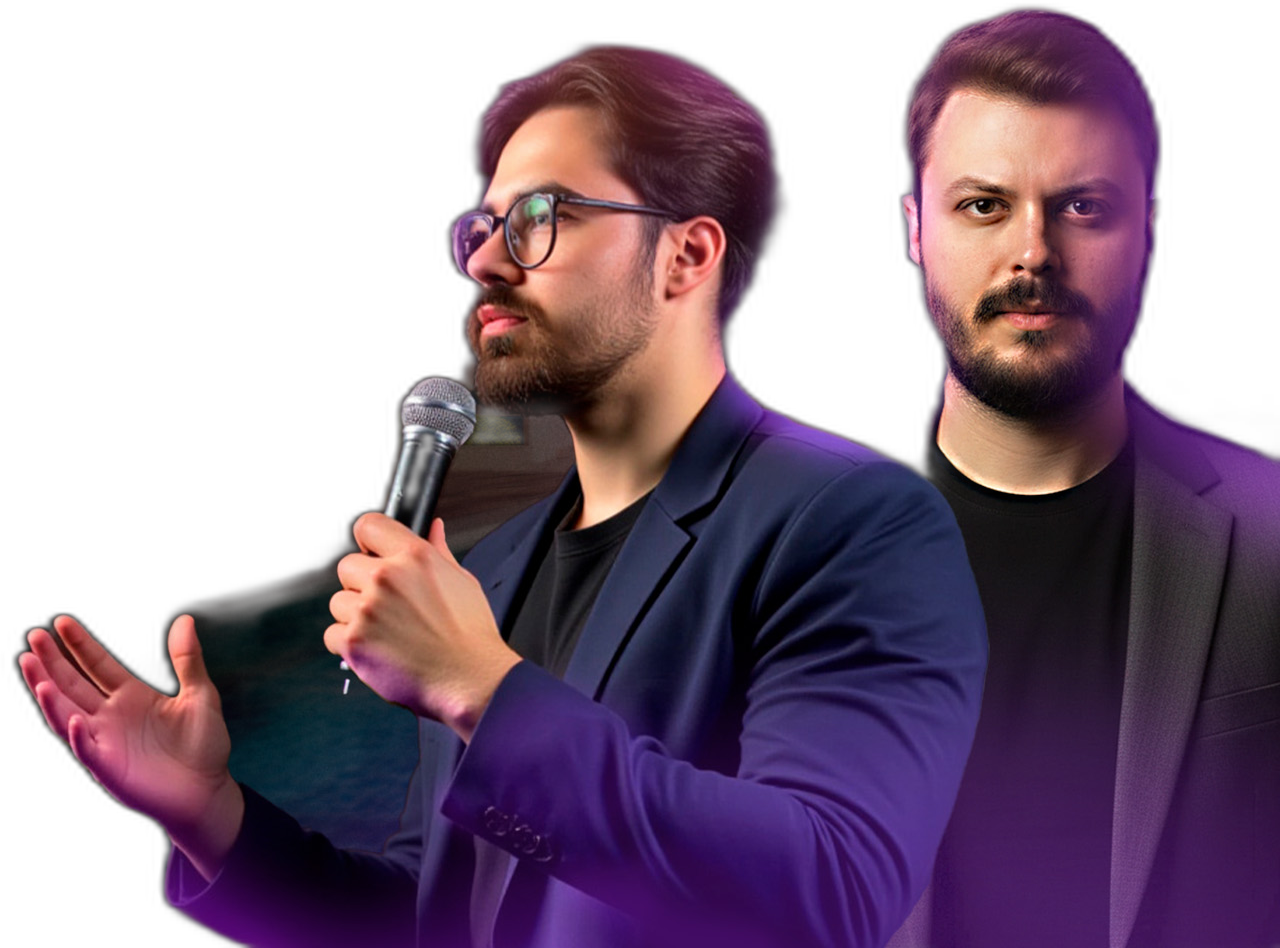
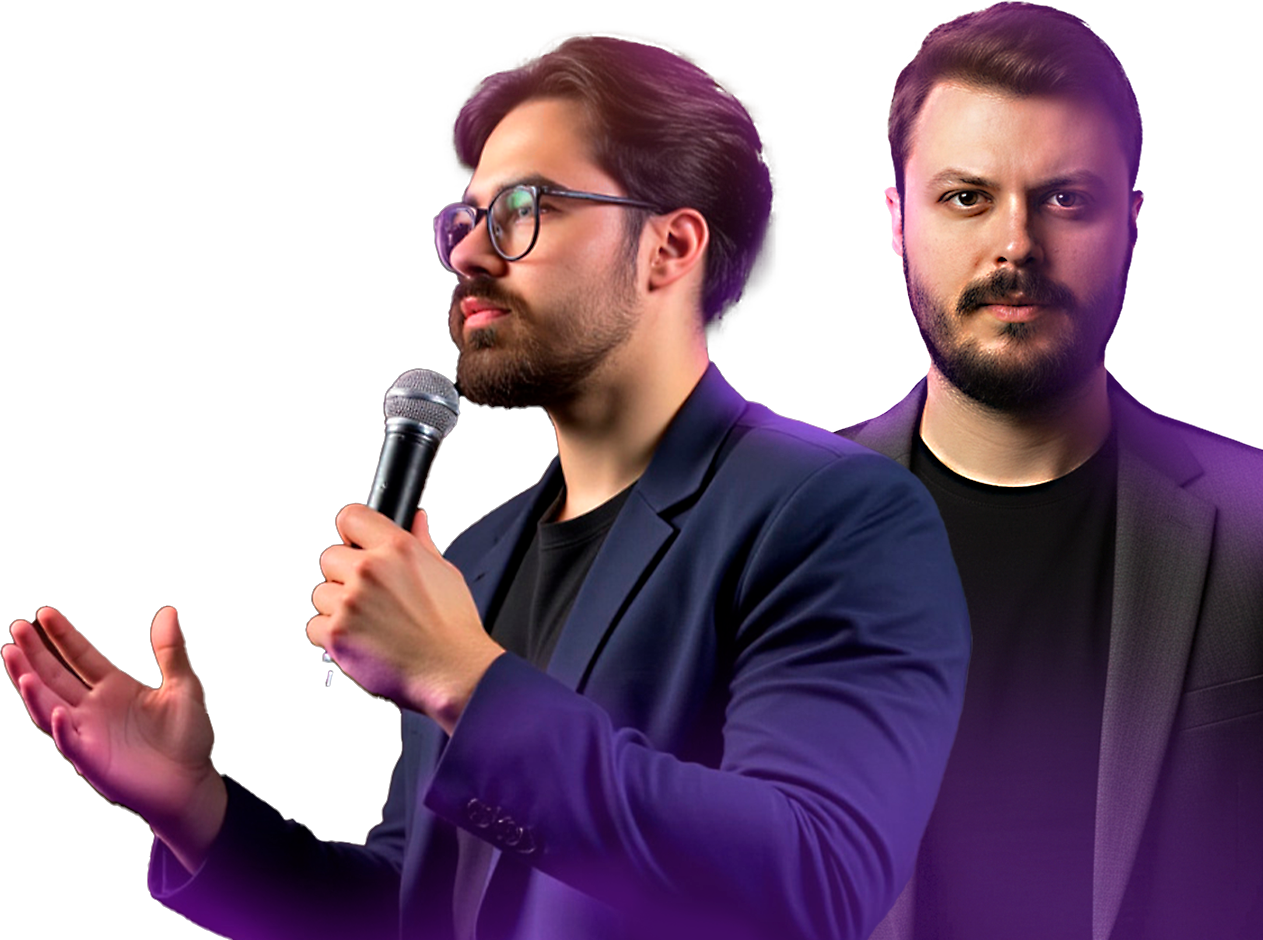
fix: foto trava na borda direita de verdade (posicionada no #hero cheio, nao mais no hero-row limitado), usa recorte de melhor qualidade exportado pelo Erik, remove drop-shadow esquisito, aumenta bloco h1+h2+botao

diff --git a/index.html b/index.html
@@ -66,7 +66,7 @@ p,li{text-wrap:pretty;}
   -webkit-backdrop-filter:blur(16px) saturate(140%);
   border-bottom:1px solid rgba(255,255,255,0.08);
 }
-.hero-top-inner{max-width:1800px;margin:0 auto;display:flex;justify-content:space-between;align-items:center;padding:20px 40px;}
+.hero-top-inner{max-width:1800px;margin:0 auto;display:flex;justify-content:space-between;align-items:center;padding:20px 80px;}
 .hero-logo{height:48px;}
 .hero-date{display:inline-flex;gap:10px;align-items:center;font-size:14px;color:rgba(255,255,255,0.85);border:1px solid rgba(255,255,255,0.15);border-radius:100px;padding:10px 20px;background:rgba(0,0,0,0.25);}
 
@@ -79,14 +79,15 @@ p,li{text-wrap:pretty;}
   color:#fff;box-shadow:0 8px 26px rgba(0,0,0,0.35);
 }
 
-.hero-row{position:relative;z-index:1;max-width:1800px;margin:0 auto;min-height:94vh;display:flex;align-items:center;padding:130px 40px 70px;box-sizing:border-box;}
-.hero-content{position:relative;z-index:1;max-width:560px;}
+.hero-row{position:relative;z-index:1;max-width:1800px;margin:0 auto;min-height:94vh;display:flex;align-items:center;padding:130px 80px 70px;box-sizing:border-box;}
+.hero-content{position:relative;z-index:1;max-width:640px;}
 .hero-content .eyebrow{display:block;margin-bottom:16px;color:rgba(255,255,255,0.45);}
-.hero-content h1{font-size:30px;margin:0 0 20px;}
-.hero-content p.sub{font-size:14.5px;color:rgba(255,255,255,0.65);margin-bottom:28px;}
+.hero-content h1{font-size:34px;font-weight:750;margin:0 0 20px;}
+.hero-content p.sub{font-size:16px;color:rgba(255,255,255,0.65);margin-bottom:42px;}
 
 .hero-cta-block{display:inline-block;}
 .hero-cta-top{display:flex;align-items:center;gap:18px;flex-wrap:wrap;margin-bottom:14px;}
+.hero-cta-top .btn{padding:18px 34px;font-size:16px;}
 .price-inline{display:flex;flex-direction:column;line-height:1.15;}
 .price-inline .old{color:rgba(255,255,255,0.4);text-decoration:line-through;font-size:13px;}
 .price-inline .new{font-size:19px;font-weight:700;}
@@ -97,9 +98,8 @@ p,li{text-wrap:pretty;}
 
 .hero-photo{
   position:absolute;right:0;bottom:0;z-index:1;
-  height:clamp(440px, 88vh, 940px);width:auto;max-width:calc(100% - 640px);
+  height:clamp(460px, 90vh, 960px);width:auto;max-width:calc(100% - 760px);
   object-fit:contain;object-position:bottom right;
-  filter:drop-shadow(0 30px 60px rgba(124,58,237,0.35));
 }
 @media(max-width:1000px){
   #hero{min-height:0;}
@@ -112,7 +112,7 @@ p,li{text-wrap:pretty;}
   }
   #hero::before{content:'';position:absolute;inset:0;background:linear-gradient(180deg, rgba(0,0,0,0.5) 0%, rgba(0,0,0,0.82) 55%, rgba(0,0,0,0.94) 100%);}
   .hero-content{position:relative;z-index:1;max-width:100%;}
-  .hero-content h1{font-size:26px;}
+  .hero-content h1{font-size:26px;font-weight:800;}
   .hero-cta-block{display:block;}
   .hero-top-inner{padding:14px 20px;}
   .hero-logo{height:32px;}
@@ -313,8 +313,8 @@ footer p{color:var(--text3);font-size:11.5px;}
         <div class="progress-caption"><b id="progress-pct">0%</b> das vagas preenchidas</div>
       </div>
     </div>
-    <img src="assets/hero-experts.png" class="hero-photo reveal in" alt="Erik Tafuri e Miguel Maulim">
   </div>
+  <img src="assets/hero-experts.png" class="hero-photo reveal in" alt="Erik Tafuri e Miguel Maulim">
 </section>
 
 <!-- ============================================================ STICKY CTA -->